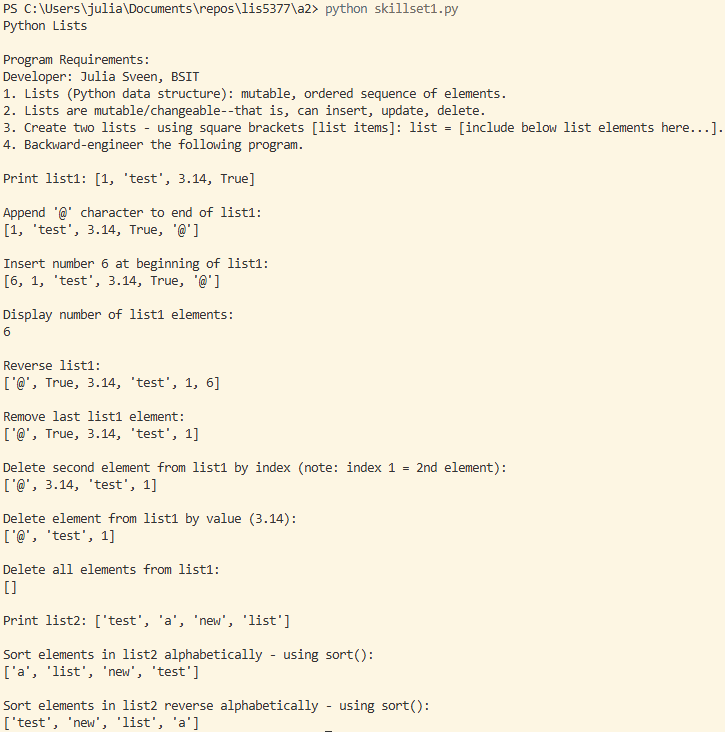
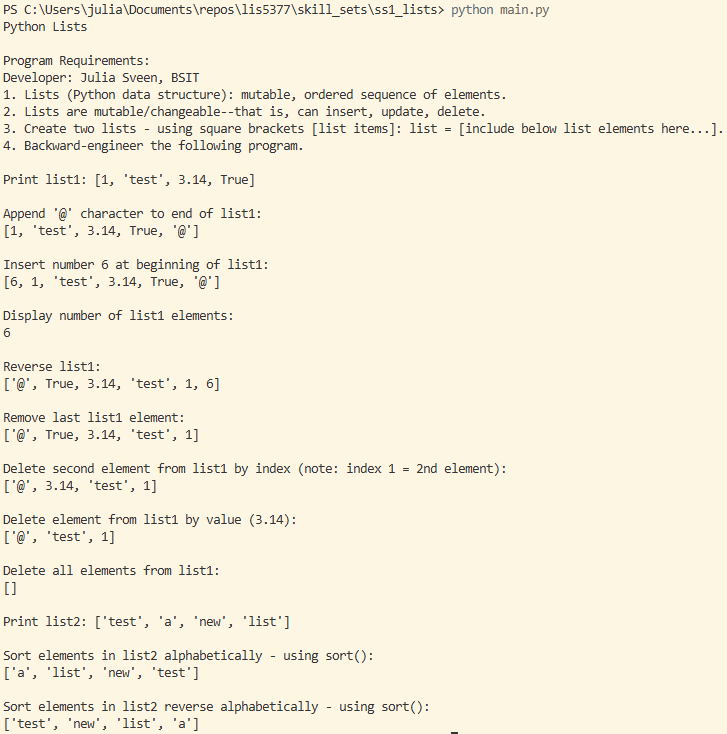
adding skillsets and more readme stuff

diff --git a/a2/README.md b/a2/README.md
@@ -36,7 +36,7 @@
 
 ![Screenshot of my_env_versions.py](img/my_env_versions_jupyter.png)
 
-##### Skillsets Screenshots:
+##### Skillset Screenshots:
 
 *Skillset 1: Lists*
 
